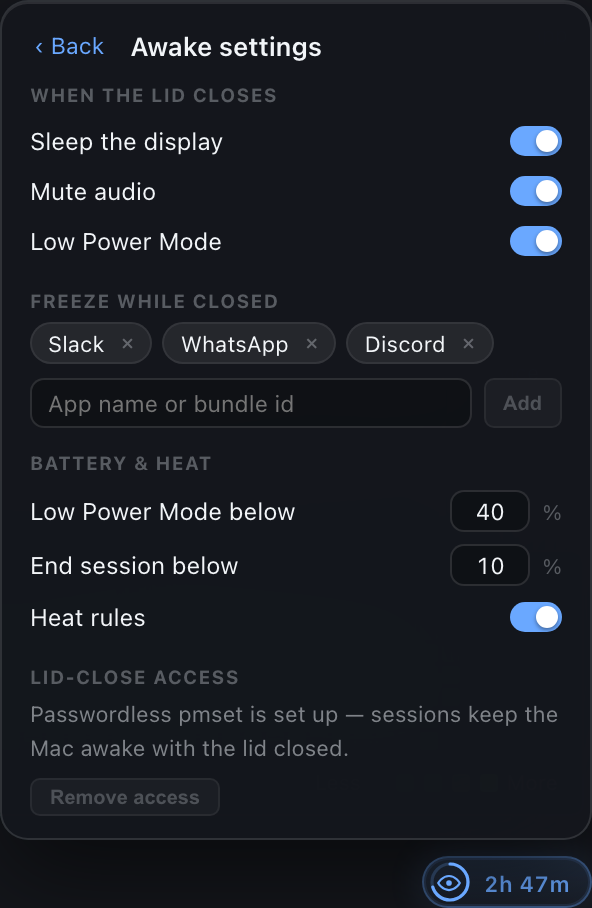
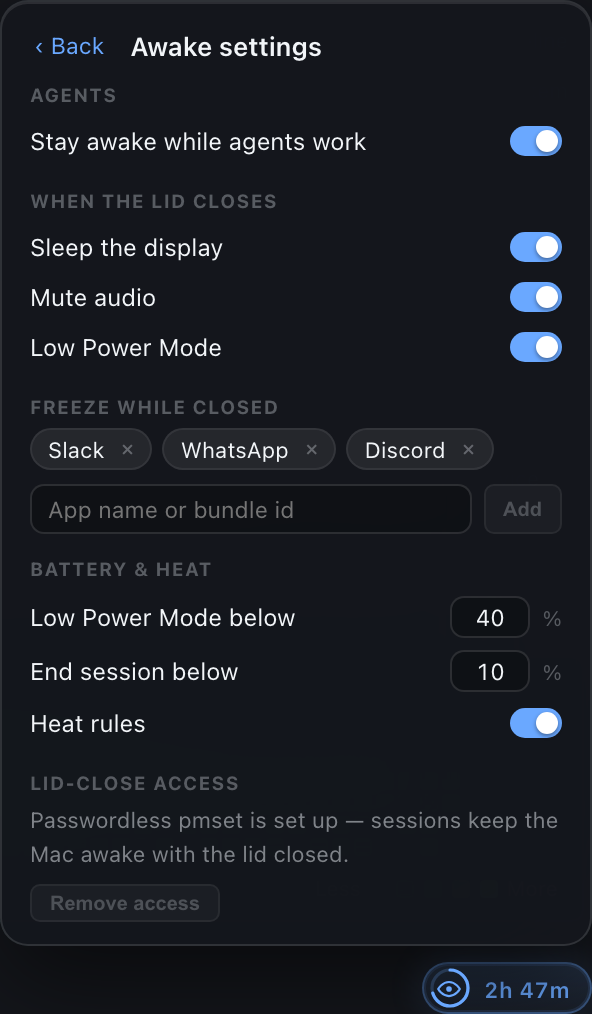
feat(awake): stay awake while agents are still working
An opt-in rule (settings → Agents): when the timer runs out but a Claude
session in the terminals panel is still mid-turn, the session extends 15
minutes at a time, up to 12 hours, instead of ending. Waiting sessions
don't count. The countdown notes the time added for agents and a status
tag shows how many are working; the first extension sends a notification.

Docs, info card, design record, and awake screenshots updated.

diff --git a/src/main/awake.ts b/src/main/awake.ts
@@ -5,7 +5,8 @@ import { chmod, mkdir, readFile, rename, rm, writeFile } from 'fs/promises'
 import { homedir, userInfo } from 'os'
 import { basename, join } from 'path'
 import { randomUUID } from 'crypto'
-import { getAwakeConfig, setAwakeConfig } from './store'
+import { getAwakeConfig, setAwakeConfig, listRepos } from './store'
+import { getTerminals } from './terminals'
 import type {
   AwakeConfig,
   AwakeEndReason,
@@ -36,6 +37,9 @@ const SUDOERS_FILE = '/etc/sudoers.d/agentic-command-center'
 const BACKSTOP_LABEL = 'com.jashan.agenticcommandcenter.awake-backstop'
 const MAX_SESSION_S = 30 * 24 * 3600
 const MIN_SESSION_S = 60
+/** Agent-aware extension: step size and the most it may add in total. */
+const AGENT_STEP_S = 15 * 60
+const AGENT_CAP_S = 12 * 3600
 
 /** Apps the freeze list may never stop: system processes, agent hosts and
  *  terminals (the work the session exists for), and this app. */
@@ -256,7 +260,8 @@ const live = {
   thermal: 'unknown' as AwakeState['thermal'],
   foreignSleepHold: false,
   warnings: [] as string[],
-  lastEnd: null as AwakeState['lastEnd']
+  lastEnd: null as AwakeState['lastEnd'],
+  agentsWorking: 0
 }
 
 function exclusive<T>(fn: () => Promise<T>): Promise<T> {
@@ -345,7 +350,8 @@ export function getAwakeState(): AwakeState {
     config,
     freezeApps: config.freezeList.map((id) => ({ bundleId: id, name: freezeNames[id] ?? id })),
     lastEnd: live.lastEnd,
-    restorePending: !j.session && runtimeDirty(j.runtime)
+    restorePending: !j.session && runtimeDirty(j.runtime),
+    agentsWorking: live.agentsWorking
   }
 }
 
@@ -681,12 +687,23 @@ function startMonitors(): void {
       })
     })
   }, 2000)
-  batteryTimer = setInterval(() => void pollBattery(), 60_000)
+  batteryTimer = setInterval(() => {
+    void pollBattery()
+    // Keep the "agents working" tag fresh while the agent rule is on.
+    if (getAwakeConfig().extendWhileAgentsWork) {
+      void countWorkingAgents().then((n) => {
+        if (n !== live.agentsWorking) {
+          live.agentsWorking = n
+          push()
+        }
+      })
+    }
+  }, 60_000)
   // Belt and braces next to the exact end timer: a sleeping or suspended
   // process can overshoot setTimeout, so check the deadline regularly too.
   tickTimer = setInterval(() => {
     const s = J().session
-    if (s && Date.now() >= new Date(s.endsAt).getTime()) void endSession('expired')
+    if (s && Date.now() >= new Date(s.endsAt).getTime()) void expire()
   }, 15_000)
   armEndTimer()
 }
@@ -703,7 +720,7 @@ function armEndTimer(): void {
   if (!s) return
   const ms = Math.max(0, new Date(s.endsAt).getTime() - Date.now())
   // setTimeout caps at ~24.8 days; the tick timer covers anything longer.
-  endTimer = setTimeout(() => void endSession('expired'), Math.min(ms, 2_000_000_000))
+  endTimer = setTimeout(() => void expire(), Math.min(ms, 2_000_000_000))
 }
 
 async function pollBattery(): Promise<void> {
@@ -818,6 +835,53 @@ async function extendNow(seconds: number): Promise<AwakeState> {
   armEndTimer()
   push()
   return getAwakeState()
+}
+
+/** Claude sessions currently mid-turn, from the terminals panel's snapshot. */
+async function countWorkingAgents(): Promise<number> {
+  try {
+    const snap = await getTerminals(listRepos())
+    return (
+      snap.entries.filter((e) => e.agent?.state === 'working').length +
+      snap.unbound.filter((u) => u.state === 'working').length
+    )
+  } catch {
+    return 0
+  }
+}
+
+/** The timer ran out. With "stay awake while agents work" on and a Claude
+ *  session still mid-turn, add 15 minutes (bounded at 12 hours in total) —
+ *  otherwise end. Re-checks the deadline, since an extend may have landed. */
+function expire(): Promise<AwakeState> {
+  return exclusive(async () => {
+    const s = J().session
+    if (!s || Date.now() < new Date(s.endsAt).getTime()) return getAwakeState()
+    const auto = (s.autoExtendedBy ?? []).reduce((a, b) => a + b, 0)
+    if (getAwakeConfig().extendWhileAgentsWork && auto < AGENT_CAP_S) {
+      live.agentsWorking = await countWorkingAgents()
+      if (live.agentsWorking > 0) {
+        const step = Math.min(AGENT_STEP_S, AGENT_CAP_S - auto)
+        const endsAt = Date.now() + step * 1000
+        const session = {
+          ...s,
+          endsAt: new Date(endsAt).toISOString(),
+          autoExtendedBy: [...(s.autoExtendedBy ?? []), step]
+        }
+        await writeJournal({ ...J(), session, endsAtEpoch: Math.floor(endsAt / 1000) })
+        armEndTimer()
+        if (auto === 0) {
+          notify(
+            'Staying awake — agents still working',
+            `${live.agentsWorking} Claude session${live.agentsWorking === 1 ? ' is' : 's are'} mid-turn, so the session keeps going 15 minutes at a time.`
+          )
+        }
+        push()
+        return getAwakeState()
+      }
+    }
+    return endNow('expired')
+  })
 }
 
 export function extendSession(seconds: number): Promise<AwakeState> {

diff --git a/src/renderer/src/components/AwakeWidget.tsx b/src/renderer/src/components/AwakeWidget.tsx
@@ -262,6 +262,14 @@ function SettingsView({
         <span className="awake-title">Awake settings</span>
       </div>
 
+      <div className="awake-group-label">Agents</div>
+      <Toggle
+        on={c.extendWhileAgentsWork}
+        label="Stay awake while agents work"
+        hint="When the timer runs out but a Claude session is still mid-turn, keep going 15 minutes at a time (up to 12 hours extra)."
+        onChange={(v) => set({ extendWhileAgentsWork: v })}
+      />
+
       <div className="awake-group-label">When the lid closes</div>
       <Toggle
         on={c.darkenDisplayOnLidClose}
@@ -489,6 +497,8 @@ export default function AwakeWidget({ state, open, onOpenChange }: Props): JSX.E
                     until {endLabel(new Date(endsAt), new Date(now))}
                     {session.extendedBy.length > 0 &&
                       ` · +${shortDuration(session.extendedBy.reduce((a, b) => a + b, 0))} added`}
+                    {(session.autoExtendedBy?.length ?? 0) > 0 &&
+                      ` · +${shortDuration((session.autoExtendedBy ?? []).reduce((a, b) => a + b, 0))} for agents`}
                   </div>
                   <div className="awake-progress">
                     <span style={{ width: `${fraction * 100}%` }} />
@@ -524,6 +534,16 @@ export default function AwakeWidget({ state, open, onOpenChange }: Props): JSX.E
                     {state.batteryPercent !== null && (
                       <span className={`awake-stat ${state.onBattery ? 'warm' : ''}`}>
                         {state.onBattery ? 'Battery' : 'Plugged in'} {state.batteryPercent}%
+                      </span>
+                    )}
+                    {state.config.extendWhileAgentsWork && (
+                      <span
+                        className={`awake-stat ${state.agentsWorking > 0 ? 'on' : ''}`}
+                        title="The session extends itself while Claude sessions are mid-turn"
+                      >
+                        {state.agentsWorking > 0
+                          ? `${state.agentsWorking} agent${state.agentsWorking === 1 ? '' : 's'} working`
+                          : 'Agent-aware'}
                       </span>
                     )}
                     {state.lowPowerByUs && <span className="awake-stat on">Low Power</span>}

diff --git a/src/shared/types.ts b/src/shared/types.ts
@@ -395,6 +395,9 @@ export interface AwakeConfig {
   endFloor: number
   /** Low Power Mode at serious heat, end the session at critical heat. */
   thermalRules: boolean
+  /** When the timer runs out while a Claude session is still working, add
+   *  15 minutes at a time (up to 12 hours in total) instead of ending. */
+  extendWhileAgentsWork: boolean
 }
 
 /** A process the lid-close freeze stopped, with the identity that proves it. */
@@ -411,6 +414,8 @@ export interface AwakeSession {
   endsAt: string
   /** Seconds added to the session after it started, in order. */
   extendedBy: number[]
+  /** Seconds added automatically because agents were still working. */
+  autoExtendedBy?: number[]
 }
 
 /** How sleep is being held for the current session. */
@@ -454,4 +459,6 @@ export interface AwakeState {
   lastEnd: { at: string; reason: AwakeEndReason } | null
   /** No session, but something an earlier one changed is still not undone. */
   restorePending: boolean
+  /** Claude sessions working right now (refreshed while a session runs). */
+  agentsWorking: number
 }

diff --git a/src/renderer/src/components/InfoDialog.tsx b/src/renderer/src/components/InfoDialog.tsx
@@ -133,7 +133,8 @@ export default function InfoDialog({ onClose }: { onClose: () => void }): JSX.El
             While a session runs and the lid is closed, the display sleeps, audio mutes, Low Power
             Mode turns on, and apps on the freeze list pause — all undone when the lid opens. On
             battery it switches to Low Power Mode below 40% and ends below 10%. Settings live under
-            the ⚙ in the awake popover.
+            the ⚙ in the awake popover, including <strong>Stay awake while agents work</strong>,
+            which extends a session 15 minutes at a time while a Claude session is mid-turn.
           </p>
 
           <h3 className="info-h">How the dollar values are calculated</h3>

diff --git a/src/main/store.ts b/src/main/store.ts
@@ -16,7 +16,8 @@ const DEFAULT_AWAKE_CONFIG: AwakeConfig = {
   freezeList: ['com.tinyspeck.slackmacgap', 'net.whatsapp.WhatsApp', 'com.hnc.Discord'],
   lowPowerFloor: 40,
   endFloor: 10,
-  thermalRules: true
+  thermalRules: true,
+  extendWhileAgentsWork: false
 }
 
 interface StoreSchema {

diff --git a/README.md b/README.md
@@ -103,6 +103,8 @@ rest keeps working.
   four-command sudoers rule); without it, sessions still hold while the lid is open.
 - **Lid-close actions**: sleep the display, mute audio, Low Power Mode, and **freeze** chat apps
   (Slack, WhatsApp, Discord by default) — all undone when the lid opens.
+- **Stay awake while agents work** (opt-in) — if the timer runs out while a Claude session in the
+  terminals panel is still mid-turn, the session keeps going 15 minutes at a time (12 h cap).
 - **Battery & heat floors** (Low Power Mode below 40%, end below 10%, heat rules) and a
   **crash-safe recovery journal** + launchd backstop so a crash never leaves sleep disabled.
 
@@ -475,6 +477,12 @@ keeps running and opening the lid doesn't end the session):
   start time still matches is ever resumed. Agent hosts, terminals, editors, and `com.apple.*` apps
   can't be added.
 
+**Stay awake while agents work** — an opt-in rule under ⚙ → *Agents*. When the timer runs out but a
+Claude session the terminals panel sees is still **working** (mid-turn), the session extends itself
+by **15 minutes** instead of ending, re-checking each time, up to **12 hours** of automatic time; a
+notification says so the first time. The countdown notes *+Nm for agents* and a tag shows how many
+agents are working. Sessions waiting on you (permission / your turn) don't count — only real work.
+
 **Battery & heat** — on battery, Low Power Mode below **40%** and the session ends below **10%**
 (0 turns the end off); heat rules turn on Low Power Mode at *serious* and end at *critical*.
 
@@ -488,8 +496,8 @@ an *expired* session's changes if the app has crashed, then removes itself.
 > guarantee.
 
 <p align="center">
-  <img src="docs/screenshot-awake.png" alt="The awake popover over the bottom-right corner pill: a 02:48:00 countdown until 8:10 PM with +1h added, a gradient progress bar, +15m/+30m/+1h/+2h/+… add-time chips, lid and battery status tags, a Lid-close safe badge, and the press-and-hold end control" width="300" />
-  <img src="docs/screenshot-awake-settings.png" alt="Awake settings: toggles to sleep the display, mute audio, and turn on Low Power Mode when the lid closes; a freeze list with Slack, WhatsApp, and Discord; battery floors at 40% and 10%; heat rules; and the lid-close access status" width="300" />
+  <img src="docs/screenshot-awake.png" alt="The awake popover over the bottom-right corner pill: a 02:48:00 countdown until 8:10 PM with +1h added, a gradient progress bar, +15m/+30m/+1h/+2h/+… add-time chips, lid, battery, and agents-working status tags, a Lid-close safe badge, and the press-and-hold end control" width="300" />
+  <img src="docs/screenshot-awake-settings.png" alt="Awake settings: a Stay awake while agents work toggle; toggles to sleep the display, mute audio, and turn on Low Power Mode when the lid closes; a freeze list with Slack, WhatsApp, and Discord; battery floors at 40% and 10%; heat rules; and the lid-close access status" width="300" />
 </p>
 
 ---
@@ -981,6 +989,11 @@ lid is open.
 The session keeps holding until its end time — then the launchd backstop turns sleep back on,
 switches Low Power Mode off, unmutes, and resumes frozen apps. Relaunching the app does the same
 immediately for an expired session, or picks a running one back up.
+
+**Can a session last exactly as long as my agents take?**
+Turn on **Stay awake while agents work** (⚙ → Agents) and start a short session. When it runs out
+while a Claude session is still mid-turn, it extends 15 minutes at a time (up to 12 hours extra)
+and ends on its own once every session is idle or waiting on you.
 
 **I already use Insomnia — do they conflict?**
 They share the same four-command rule, so either install works for both. If sleep is already

diff --git a/docs/awake-sessions.md b/docs/awake-sessions.md
@@ -13,6 +13,7 @@ Electron main process; the UI follows the command center's own glass/hairline/ac
 | Running | Live clock, "until <time>", progress bar, add-time chips (+15m +30m +1h +2h, `+…` custom), status tags, hold-to-end (0.6 s ring; release / slide off cancels). |
 | Sleep hold | `sudo -n pmset -a disablesleep 1` when the sudoers rule exists (`mode: 'lid'`), always plus `powerSaveBlocker('prevent-app-suspension')`. Without the rule: assertion only (`mode: 'assertion'`, "Lid open only"). |
 | Lid close | Sleep the display (`pmset displaysleepnow`, best effort), mute (osascript), Low Power Mode (`pmset -b lowpowermode 1`), SIGSTOP the freeze list. Lid open undoes all of it. |
+| Agents | Opt-in `extendWhileAgentsWork`: at expiry, if the terminals snapshot shows any Claude session in `working`, extend 15 min (`autoExtendedBy`), capped at 12 h total; first extension notifies. Waiting states (`permission`, `input`) don't count. |
 | Floors | On battery: LPM below `lowPowerFloor` (40), end below `endFloor` (10, 0 = off). Heat rules: LPM at `serious`, end at `critical`. |
 | Recovery | Journal before every change; reconcile at launch; launchd backstop for crashes; quit ends the session first. |
 | Palette | "Keep Mac awake for 1h / 4h / 8h", "Keep awake 1 hour longer", "End awake session", "Awake session…". |
@@ -74,6 +75,11 @@ All lifecycle work (start / extend / end / lid / floors / retry) runs through on
 `endSession()` from inside would deadlock. The end fires from an exact `setTimeout` (capped at
 ~24.8 days) backed by a 15 s deadline check, since timers drift across system sleep.
 
+Expiry goes through `expire()` (also inside the chain): it re-checks the deadline, then either
+auto-extends for working agents (`countWorkingAgents()` → `getTerminals(listRepos())`, entries +
+unbound sessions) or calls `endNow('expired')`. The 60 s battery timer also refreshes
+`agentsWorking` while the rule is on.
+
 ## 6. Components
 
 | File | Role |
@@ -98,6 +104,12 @@ overrides, private-framework brightness save/restore (display sleep is used inst
 freeze rule.
 
 ## 8. Delivery record
+
+- **Live-tested** in the real app (CDP-driven, throwaway profile, `ACC_SIMULATE_LID`): UI start,
+  hold-to-end (200 ms ignored, 900 ms ends), lid close/open (mute + SIGSTOP, then restore),
+  `kill -9` → backstop restore within 5 s of expiry, `kill -9` + relaunch → takeover, agent-aware
+  extension. Lid mode (`pmset disablesleep`, LPM) awaits an approved admin prompt.
+- **Testing hook**: `ACC_SIMULATE_LID=<file>` — the lid reads closed while the file says `closed`.
 
 - Branch `worktree-feature-insomnia-awake`. Screenshots via the headless harness:
   `npm run screenshots awake` (`screenshot-awake.png`, `screenshot-awake-settings.png`); the mock
